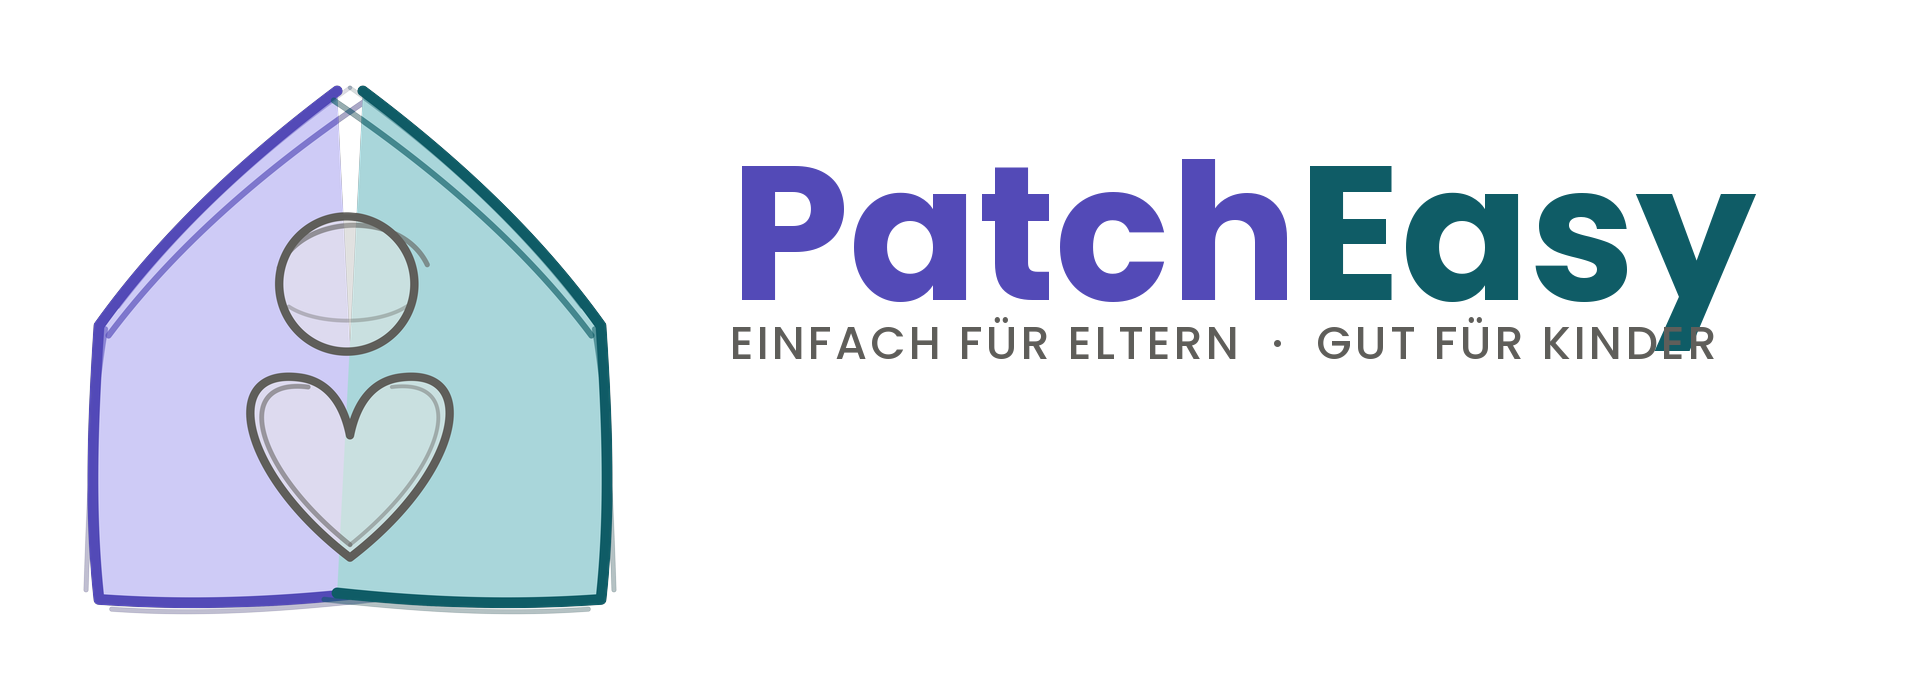
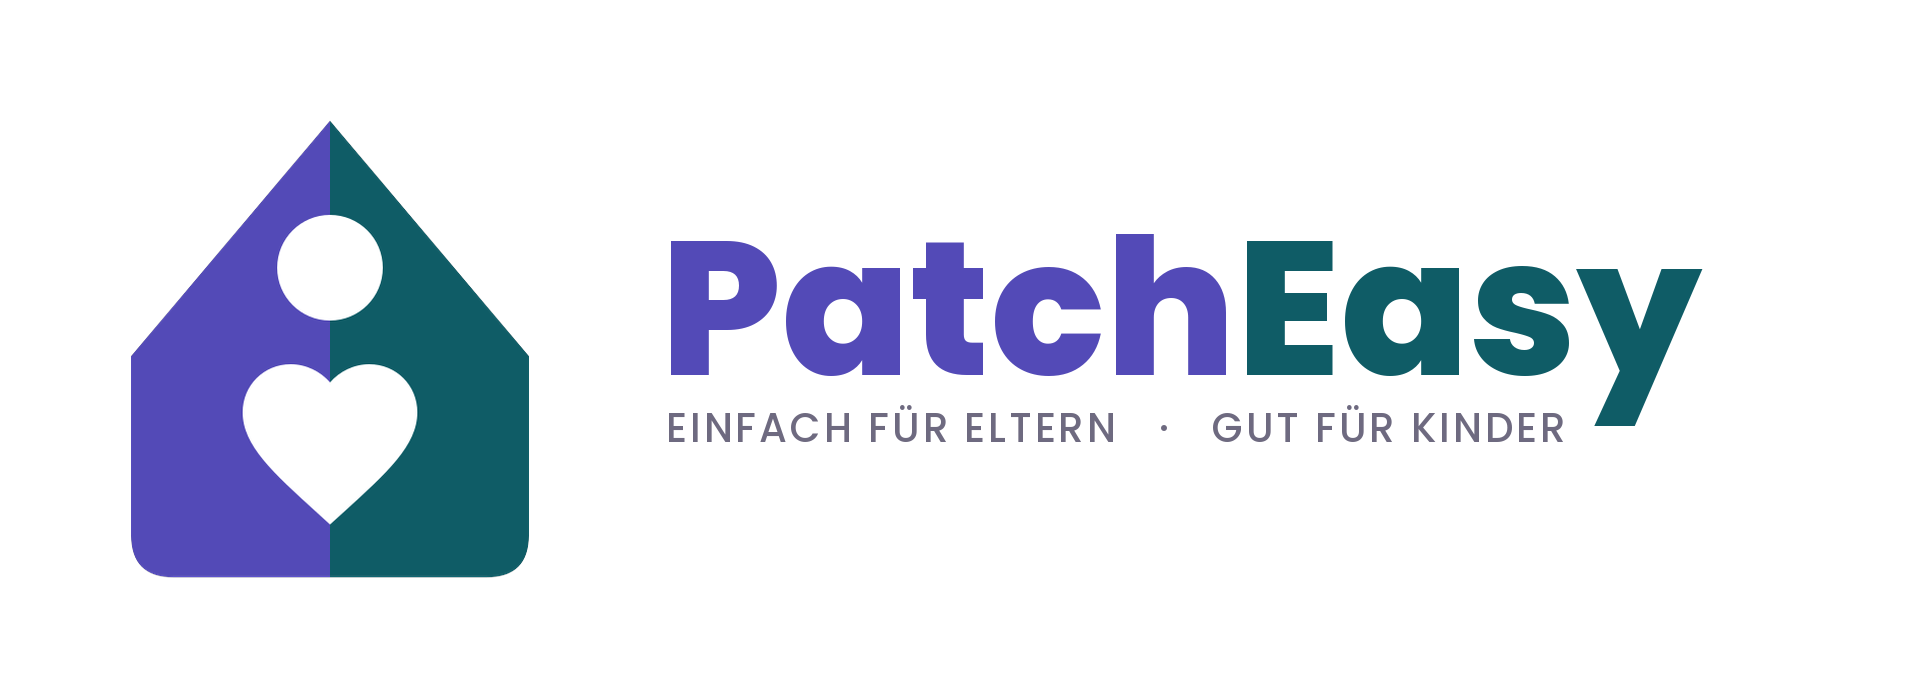
Add files via upload
added journal

Changed region(s): [[0.0311, 0.12, 0.9326, 0.9]]

diff --git a/app.py b/app.py
@@ -780,17 +780,39 @@ st.markdown(
     unsafe_allow_html=True,
 )
 
-if os.path.exists(BANNER_DATEI):
-    st.image(BANNER_DATEI, width=340)
-else:
-    st.markdown(
-        """
-        <div style="font-size:2.1rem;font-weight:800;letter-spacing:-0.03em;line-height:1.15;">
-          PatchEasy
+# Kopfzeile als Icon (inline SVG) + echter HTML-Text statt Raster-Grafik: ein eingebettetes
+# PNG-Banner wird von Streamlit auf eine kleine Breite herunterskaliert (hier vorher 340px bei
+# einer 1930px breiten Quelldatei) - beim Icon (grosse Flaechen) faellt das kaum auf, aber duenne
+# Schriftkonturen verlieren dabei sichtbar an Kontrast ("verwaessert"). Echter Text bleibt dagegen
+# bei jeder Bildschirmgroesse/jedem Zoom gestochen scharf, da der Browser ihn selbst rendert.
+_HEADER_SVG_ICON = (
+    '<svg width="60" height="60" viewBox="0 0 512 512" xmlns="http://www.w3.org/2000/svg">'
+    '<path d="M256 30 L60 262 L60 438 Q60 480 102 480 L256 480 Z" fill="#534AB7"/>'
+    '<path d="M256 30 L452 262 L452 438 Q452 480 410 480 L256 480 Z" fill="#0F5C66"/>'
+    '<circle cx="256" cy="175" r="52" fill="#FFFFFF"/>'
+    '<g transform="translate(152.8,244.2) scale(8.6)">'
+    '<path d="M12 21.35l-1.45-1.32C5.4 15.36 2 12.28 2 8.5 2 5.42 4.42 3 7.5 3c1.74 0 3.41.81 4.5 2.09'
+    'C13.09 3.81 14.76 3 16.5 3 19.58 3 22 5.42 22 8.5c0 3.78-3.4 6.86-8.55 11.54L12 21.35z" fill="#FFFFFF"/>'
+    '</g>'
+    '</svg>'
+)
+st.markdown(
+    f"""
+    <div style="display:flex; align-items:center; gap:16px; margin-bottom:2px;">
+      <div style="flex-shrink:0; line-height:0;">{_HEADER_SVG_ICON}</div>
+      <div>
+        <div style="font-size:2.5rem; font-weight:800; line-height:1; letter-spacing:-0.02em;">
+          <span style="color:var(--pe-purple);">Patch</span><span style="color:var(--pe-teal);">Easy</span>
         </div>
-        """,
-        unsafe_allow_html=True,
-    )
+        <div style="font-size:0.78rem; font-weight:600; letter-spacing:0.05em; text-transform:uppercase;
+                    color:var(--pe-ink-soft); margin-top:3px;">
+          Einfach für Eltern · Gut für Kinder
+        </div>
+      </div>
+    </div>
+    """,
+    unsafe_allow_html=True,
+)
 st.markdown(
     f"""
     <div style="font-size:0.95rem;font-weight:600;color:var(--pe-ink-soft);margin-top:2px;margin-bottom:14px;
@@ -831,6 +853,8 @@ st.session_state.setdefault("nk_form_key", 0)  # zaehlt hoch, um das Kontaktform
 st.session_state.setdefault("checkliste_form_key", 0)  # zaehlt hoch, um das Eingabefeld nach dem Hinzufuegen zurueckzusetzen
 st.session_state.setdefault("checkliste_reset_key", 0)  # zaehlt hoch, um alle Haekchen ueber "Zuruecksetzen" zu leeren
 st.session_state.setdefault("feste_info_form_key", 0)  # zaehlt hoch, um das Eingabefeld nach dem Hinzufuegen zurueckzusetzen
+st.session_state.setdefault("journal_eintraege", [])  # [{"id","datum","von","kind","text"}] - laufendes Protokoll ueber das Kind, damit beide Elternteile auf dem gleichen Stand bleiben
+st.session_state.setdefault("journal_form_key", 0)  # zaehlt hoch, um das Journal-Formular nach dem Speichern zurueckzusetzen
 
 
 def lade_gespeicherte_daten():
@@ -1025,6 +1049,17 @@ def lade_gespeicherte_daten():
             }
             for n in daten["feste_infos"]
         ]
+    if "journal_eintraege" in daten:
+        st.session_state["journal_eintraege"] = [
+            {
+                "id": j.get("id") or uuid.uuid4().hex[:8],
+                "datum": dt.date.fromisoformat(j["datum"]) if j.get("datum") else dt.date.today(),
+                "von": _migriere_elternteil(j.get("von")) if _migriere_elternteil(j.get("von")) in (ELTERNTEIL_1, ELTERNTEIL_2) else ELTERNTEIL_1,
+                "kind": j.get("kind", ""),
+                "text": j.get("text", ""),
+            }
+            for j in daten["journal_eintraege"]
+        ]
 
 
 def speichere_daten():
@@ -1085,6 +1120,13 @@ def speichere_daten():
         "notfallkontakte": st.session_state["notfallkontakte"],
         "uebergabe_checkliste": st.session_state["uebergabe_checkliste"],
         "feste_infos": st.session_state["feste_infos"],
+        "journal_eintraege": [
+            {
+                "id": j["id"], "datum": j["datum"].isoformat(), "von": j["von"],
+                "kind": j.get("kind", ""), "text": j["text"],
+            }
+            for j in st.session_state["journal_eintraege"]
+        ],
     }
     try:
         with open(DATEN_DATEI, "w", encoding="utf-8") as f:
@@ -1664,12 +1706,6 @@ def seite_kalender():
         "Feste Wunsch-/Verzichtstage haben Vorrang, alle übrigen Tage werden am Wechseltag so "
         "verteilt, dass sich die Zielquote über den Zeitraum einpendelt."
     )
-    st.info(
-        "Vereinfachung in dieser Version: eine gemeinsame Rotation für alle Kinder. "
-        "Unterschiedliche Zeiten je Kind wären ein möglicher nächster Schritt.",
-        icon=":material/info:",
-    )
-
     # ---------- Auswertung ----------
     gesamt = len(df)
     vater_n = int((df["elternteil"] == "Elternteil 1").sum())
@@ -2000,44 +2036,6 @@ def seite_finanzen():
     _fc3.metric(f"Anteil {anzeige(ELTERNTEIL_2)}", euro(_mutter_anteil_gesamt))
 
     st.divider()
-
-    with st.expander(":material/family_restroom: Kinder verwalten", expanded=False):
-        st.caption(
-            "Namen der Kinder, für die Ausgaben erfasst werden können – hilfreich, wenn es "
-            "mehrere gibt und ihr später sehen wollt, wofür wie viel ausgegeben wurde."
-        )
-        _kind_neu_col1, _kind_neu_col2 = st.columns([4, 1])
-        _kind_name_neu = _kind_neu_col1.text_input(
-            "Name hinzufügen", key="kind_name_neu", placeholder="z. B. Mia",
-            label_visibility="collapsed",
-        )
-        if _kind_neu_col2.button(":material/add: Hinzufügen", key="kind_hinzufuegen", type="primary"):
-            _name = _kind_name_neu.strip()
-            if not _name:
-                st.warning("Bitte einen Namen eingeben.")
-            elif _name in st.session_state["kinder"]:
-                st.warning("Dieses Kind gibt es schon.")
-            else:
-                st.session_state["kinder"].append(_name)
-                # Das Ausgabe-Formular unten ist ein Expander - sein Inhalt (inkl. der
-                # "fa_kind"-Mehrfachauswahl) wird bei JEDEM Durchlauf ausgefuehrt, auch wenn er
-                # eingeklappt ist. Der Widget-Key wird also schon beim allerersten Laden belegt.
-                # Damit ein neu hinzugefuegtes Kind in der Auswahl auch wirklich mit vorausgewaehlt
-                # ist, den Key hier direkt auf die neue vollstaendige Liste setzen (statt ihn nur
-                # zu loeschen - das reicht bei diesem Widget-Typ nicht zuverlaessig aus).
-                st.session_state["fa_kind"] = list(st.session_state["kinder"])
-                st.rerun()
-        if not st.session_state["kinder"]:
-            st.caption("Noch keine Kinder erfasst – neue Ausgaben gelten dann automatisch für „Kind”.")
-        for _k in list(st.session_state["kinder"]):
-            _kr1, _kr2 = st.columns([4, 1])
-            _kr1.write(_k)
-            if _kr2.button(":material/delete:", key=f"rm_kind_{_k}"):
-                st.session_state["kinder"] = [x for x in st.session_state["kinder"] if x != _k]
-                st.session_state["fa_kind"] = [
-                    x for x in st.session_state.get("fa_kind", []) if x != _k
-                ]
-                st.rerun()
 
     _kinder_optionen = st.session_state["kinder"] or ["Kind"]
 
@@ -2560,6 +2558,99 @@ def seite_pinnwand():
     speichere_daten()
 
 
+def seite_journal():
+    st.subheader(":material/auto_stories: Journal")
+    st.caption(
+        "Kleine Notizen über das Kind, die beide Elternteile mitbekommen sollen – was passiert "
+        "ist, was sich verändert, was auffällt. Damit niemand etwas verpasst, nur weil das Kind "
+        "gerade beim anderen Elternteil war."
+    )
+
+    _eintraege = st.session_state["journal_eintraege"]
+    _kinder_optionen = st.session_state["kinder"] or ["Kind"]
+
+    # ---------- Neuer Eintrag (oben, da zentrale Aktion dieser Seite) ----------
+    with st.container(key="pe_card_journal_neu"):
+        st.markdown("##### :material/edit_note: Neuer Eintrag")
+        _j_suffix = st.session_state["journal_form_key"]
+        _jc1, _jc2 = st.columns(2)
+        _j_datum = _jc1.date_input("Datum", value=dt.date.today(), key=f"j_datum_{_j_suffix}")
+        _j_von = _jc2.radio(
+            "Von", [ELTERNTEIL_1, ELTERNTEIL_2], key=f"j_von_{_j_suffix}",
+            horizontal=True, format_func=anzeige,
+        )
+        _j_kind = st.selectbox("Für welches Kind?", _kinder_optionen, key=f"j_kind_{_j_suffix}")
+        _j_text = st.text_area(
+            "Was gibt's zu berichten?", key=f"j_text_{_j_suffix}", height=100,
+            placeholder="z. B. Hatte heute ihren ersten Schwimmkurs, war ganz aufgeregt und hat "
+            "sich super angestellt.",
+        )
+        if st.button(":material/add: Eintrag speichern", key="journal_speichern", type="primary"):
+            if _j_text.strip():
+                st.session_state["journal_eintraege"].append({
+                    "id": uuid.uuid4().hex[:8],
+                    "datum": _j_datum,
+                    "von": _j_von,
+                    "kind": _j_kind,
+                    "text": _j_text.strip(),
+                })
+                st.session_state["journal_form_key"] += 1
+                speichere_daten()
+                st.rerun()
+            else:
+                st.warning("Bitte einen Text eingeben.")
+
+    st.divider()
+
+    # ---------- Bisherige Eintraege (neueste zuerst) ----------
+    if not _eintraege:
+        st.caption("Noch keine Einträge – der erste kommt bestimmt bald.")
+        speichere_daten()
+        return
+
+    if len(_kinder_optionen) > 1:
+        _vorkommende_kinder = sorted({e.get("kind") or "Kind" for e in _eintraege})
+        _filter_kinder = st.multiselect(
+            "Nach Kind filtern", _vorkommende_kinder, default=list(_vorkommende_kinder),
+            key="journal_filter_kind",
+        )
+        _gefiltert = [e for e in _eintraege if (e.get("kind") or "Kind") in _filter_kinder]
+    else:
+        _gefiltert = _eintraege
+
+    _sortiert = sorted(_gefiltert, key=lambda x: x["datum"], reverse=True)
+    if not _sortiert:
+        st.caption("Keine Einträge für diese Auswahl.")
+
+    for _e in _sortiert:
+        with st.container(key=f"pe_card_journal_{_e['id']}"):
+            _hc1, _hc2 = st.columns([6, 1])
+            with _hc1:
+                _autor_farbe = farbe(_e["von"])
+                _datum_label = f"{WOCHENTAGE[_e['datum'].weekday()][:2]}, {_e['datum'].strftime('%d.%m.%Y')}"
+                _kind_label = f" · {_e['kind']}" if _e.get("kind") else ""
+                st.markdown(
+                    "<div style='display:flex;align-items:center;gap:8px;flex-wrap:wrap;margin-bottom:4px;'>"
+                    f"<span style='font-size:0.8rem;color:var(--pe-ink-soft);font-weight:600;'>"
+                    f"{_datum_label}{_kind_label}</span>"
+                    f"<span style='display:inline-block;padding:1px 10px;border-radius:999px;"
+                    f"background:{_autor_farbe};color:white;font-size:0.7rem;font-weight:700;'>"
+                    f"{anzeige(_e['von'])}</span>"
+                    "</div>",
+                    unsafe_allow_html=True,
+                )
+            with _hc2:
+                if st.button(":material/delete:", key=f"del_journal_{_e['id']}"):
+                    st.session_state["journal_eintraege"] = [
+                        x for x in st.session_state["journal_eintraege"] if x["id"] != _e["id"]
+                    ]
+                    speichere_daten()
+                    st.rerun()
+            st.write(_e["text"])
+
+    speichere_daten()
+
+
 def seite_einstellungen():
     st.subheader(":material/tune: Grundeinstellungen")
     st.caption(
@@ -2641,9 +2732,52 @@ def seite_einstellungen():
         st.rerun()
 
     st.divider()
+
+    st.markdown("#### Kinder")
     st.caption(
-        "Weitere Grundeinstellungen – Zeitraum, Wechselrhythmus, Kinder und mehr – findet ihr "
-        "auf der Kalender- bzw. Finanzen-Seite."
+        "Namen der Kinder, für die ihr Journal-Einträge schreiben und Ausgaben erfassen könnt – "
+        "hilfreich, wenn es mehrere gibt und ihr später sehen wollt, wer wofür wie viel "
+        "ausgegeben hat oder was wen betrifft."
+    )
+    _kind_neu_col1, _kind_neu_col2 = st.columns([4, 1])
+    _kind_name_neu = _kind_neu_col1.text_input(
+        "Name hinzufügen", key="kind_name_neu", placeholder="z. B. Mia",
+        label_visibility="collapsed",
+    )
+    if _kind_neu_col2.button(":material/add: Hinzufügen", key="kind_hinzufuegen", type="primary"):
+        _name = _kind_name_neu.strip()
+        if not _name:
+            st.warning("Bitte einen Namen eingeben.")
+        elif _name in st.session_state["kinder"]:
+            st.warning("Dieses Kind gibt es schon.")
+        else:
+            st.session_state["kinder"].append(_name)
+            # Die Ausgabe- bzw. Journal-Formulare auf den anderen Seiten sind Expander - ihr Inhalt
+            # (inkl. der "fa_kind"-Mehrfachauswahl) wird bei JEDEM Durchlauf ausgefuehrt, auch wenn
+            # er eingeklappt ist. Der Widget-Key wird also schon beim allerersten Laden belegt.
+            # Damit ein neu hinzugefuegtes Kind in der Auswahl auch wirklich mit vorausgewaehlt
+            # ist, den Key hier direkt auf die neue vollstaendige Liste setzen (statt ihn nur
+            # zu loeschen - das reicht bei diesem Widget-Typ nicht zuverlaessig aus).
+            st.session_state["fa_kind"] = list(st.session_state["kinder"])
+            speichere_daten()
+            st.rerun()
+    if not st.session_state["kinder"]:
+        st.caption("Noch keine Kinder erfasst – neue Ausgaben gelten dann automatisch für „Kind”.")
+    for _k in list(st.session_state["kinder"]):
+        _kr1, _kr2 = st.columns([4, 1])
+        _kr1.write(_k)
+        if _kr2.button(":material/delete:", key=f"rm_kind_{_k}"):
+            st.session_state["kinder"] = [x for x in st.session_state["kinder"] if x != _k]
+            st.session_state["fa_kind"] = [
+                x for x in st.session_state.get("fa_kind", []) if x != _k
+            ]
+            speichere_daten()
+            st.rerun()
+
+    st.divider()
+    st.caption(
+        "Weitere Grundeinstellungen – Zeitraum und Wechselrhythmus – findet ihr auf der "
+        "Kalender-Seite."
     )
 
 
@@ -2652,6 +2786,7 @@ pg = st.navigation(
         st.Page(seite_kalender, title="Kalender", icon=":material/calendar_month:", default=True),
         st.Page(seite_finanzen, title="Finanzen", icon=":material/account_balance_wallet:"),
         st.Page(seite_pinnwand, title="Pinnwand", icon=":material/push_pin:"),
+        st.Page(seite_journal, title="Journal", icon=":material/auto_stories:"),
         st.Page(seite_einstellungen, title="Einstellungen", icon=":material/tune:"),
     ],
     position="top",
